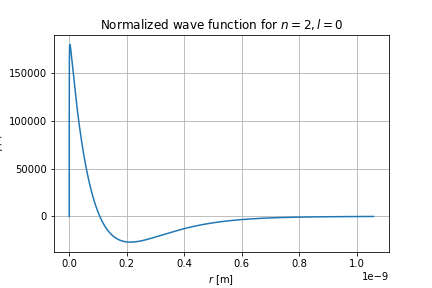
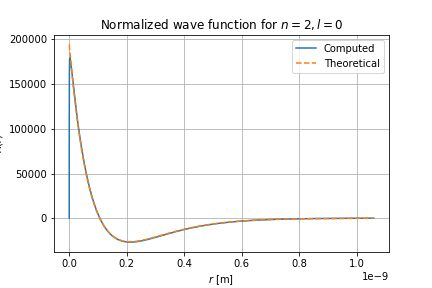
q2

Changed region(s): [[0.0, 0.125, 0.9028, 0.6562], [0.0903, 0.6562, 0.9028, 0.8438], [0.0, 0.5, 0.0301, 0.5312]]

diff --git a/Lab07/code/Lab07_Q2.py b/Lab07/code/Lab07_Q2.py
@@ -11,6 +11,16 @@ import numpy as np
 import matplotlib.pyplot as plt
 import scipy.constants as pc
 
+#define constants
+a = pc.physical_constants['Bohr radius'][0]
+E0 = pc.physical_constants['Rydberg constant times hc in eV'][0] 
+m = pc.m_e #electron mass
+hbar = pc.hbar
+e = pc.e #elementary charge
+eps0 = pc.epsilon_0
+pi = np.pi
+
+#define integration function
 def simpsons(x,f):
     '''
     computes the integral, using simpson's method, of a function given its
@@ -25,18 +35,20 @@ def simpsons(x,f):
         s += 2*f[k]
     return h*s/3.0
 
-# Constants
-a = pc.physical_constants['Bohr radius'][0]
-E0 = pc.physical_constants['Rydberg constant times hc in eV'][0] 
-m = pc.m_e # electron mass
-hbar = pc.hbar
-e = pc.e # elementary charge
-eps0 = pc.epsilon_0
-pi = np.pi
-
+#define function to compute the analytic solutions R(r):
+def R_theory(x, n, l):
+    if n==1:
+        return 2*np.exp(-x/a)/(a**1.5)
+    
+    elif n==2 and l==0:
+        return (1/(2*np.sqrt(2)*a**1.5))*(2-(x/a))*np.exp(-x/(2*a))
+    
+    elif n==2 and l==1:
+        return (1/(2*np.sqrt(6)*a**1.5))*(x/a)*np.exp(-x/(2*a))
+    
 #set n and l
 n = 2
-l = 0
+l = 1
 
 #set step size and max r
 h = 0.002*a
@@ -45,10 +57,11 @@ r_inf = 20*a
 #define array of points r
 r = np.arange(h,r_inf,h)
 
-# Potential function
+#define potential function
 def V(x):
     return -e*e/(4*pi*eps0*x)
 
+#define function to output values of derivatives of coupled ODE system
 def f(val,x,E):
     R = val[0]
     S = val[1]
@@ -56,18 +69,18 @@ def f(val,x,E):
     dS = ((2*m*x*x/hbar**2)*(V(x)-E) + l*(l+1))*R
     return np.array([dR,dS],float)
 
-# Calculate the wavefunction for a particular energy
-def solve(E):
+#calculate the wavefunction for a particular energy
+def wave(E):
     R = 0.0
     S = 1.0
     vals = np.empty((len(r),2),float)
     vals[0] = np.array([R,S])
     
     for i in range(len(r)-1):
-        k1 = h*f(vals[i],r[i],E)
-        k2 = h*f(vals[i]+0.5*k1,r[i]+0.5*h,E)
-        k3 = h*f(vals[i]+0.5*k2,r[i]+0.5*h,E)
-        k4 = h*f(vals[i]+k3,r[i]+h,E)
+        k1 = h*f(vals[i], r[i], E)
+        k2 = h*f(vals[i]+0.5*k1, r[i]+0.5*h, E)
+        k3 = h*f(vals[i]+0.5*k2, r[i]+0.5*h, E)
+        k4 = h*f(vals[i]+k3, r[i]+h, E)
         vals[i+1] = vals[i] + (k1+2*k2+2*k3+k4)/6
 
     return vals
@@ -75,22 +88,37 @@ def solve(E):
 # Main program to find the energy using the secant method
 E1 = -15*e/n**2
 E2 = -13*e/n**2
-R2 = solve(E1)[-1,0]
+R2 = wave(E1)[-1,0]
 
+#specify target accuracy
 target = e/1000
+
+#iteratively apply the secant method until the target accuracy is reached
 while abs(E1-E2) > target:
-    R1,R2 = R2,solve(E2)[-1,0]
-    E1,E2 = E2,E2-R2*(E2-E1)/(R2-R1)
+    R1, R2 = R2, wave(E2)[-1,0]
+    E1, E2 = E2, E2-R2*(E2-E1)/(R2-R1)
     
-psi = solve(E2)[:,0]
+#compute the wave function for the calculated energy
+psi = wave(E2)[:,0]
 
+#compute the norm of psi and normalize the wavefunction
 norm = simpsons(r,abs(psi)**2)
-
 psi_normal = psi/np.sqrt(norm)
+
+#compute the theoretical wavefunction
+psi_theory = R_theory(r, n, l)
+
+#normalize the theoretical wave function
+norm_theory = simpsons(r,abs(psi_theory)**2)
+psi_theory_normal = psi_theory/np.sqrt(norm_theory)
+
+#plot
 plt.figure(0)
-plt.plot(r, psi_normal)
+plt.plot(r, psi_normal, label='Computed')
+plt.plot(r, psi_theory_normal, '--', label='Theoretical')
 plt.grid()
 plt.title('Normalized wave function for $n='+str(n)+', l='+str(l)+'$')
-plt.ylabel('$\psi(r)$')
+plt.ylabel('$R(r)$')
 plt.xlabel('$r$ [m]')
+plt.legend(loc='upper right')
 plt.savefig('../images/q2_d_n='+str(n)+'_l='+str(l)+'.png')

diff --git a/Lab07/tex_file/PHY407_Lab07.tex b/Lab07/tex_file/PHY407_Lab07.tex
@@ -74,4 +74,33 @@ In table \ref{tab:2b_iii} we display the calculated values of the energy for the
 	\end{tabular}
 \end{table}
 
+\subsection{Part d)}
+
+We seek to produce plots of the normalized computed wavefunctions $R(r)$ for each of the energy levels from the previous section, and compare the graphs of the functions to those of the theoretical solutions to the differential equation.
+
+Plots of the eigenfunctions for all three sets of $n$ and $l$ values are shown in figures \ref{fig:q2_d_n=1_l=0}-\ref{fig:q2_d_n=2_l=1}. In all figures, both the computed and theoretical wavefunctions have been normalized. As can be seen from the figures, the overall agreement between the computed and theoretical functions on the breadth of the domain is very good; the only regions where there are some discernible discrepancies are near the endpoints.
+
+In the case of both $n=1, l=0$ and $n=2, l=0$, we see that the theoretical wavefunction increases to infinity at r=0. However, we required the boundary condition 
+
+\begin{figure}[H]
+	\centering
+	\includegraphics[width=0.8\textwidth]{../images/q2_d_n=1_l=0.png}
+	\caption{Plot of computed and theoretical normalized wavefunction $R(r)$ for $n=1, l=0$.}
+	\label{fig:q2_d_n=1_l=0}
+\end{figure}
+
+\begin{figure}[H]
+	\centering
+	\includegraphics[width=0.8\textwidth]{../images/q2_d_n=2_l=0.png}
+	\caption{Plot of computed and theoretical normalized wavefunction $R(r)$ for $n=2, l=0$.}
+	\label{fig:q2_d_n=2_l=0}
+\end{figure}
+
+\begin{figure}[H]
+	\centering
+	\includegraphics[width=0.8\textwidth]{../images/q2_d_n=2_l=1.png}
+	\caption{Plot of computed and theoretical normalized wavefunction $R(r)$ for $n=2, l=1$.}
+	\label{fig:q2_d_n=2_l=1}
+\end{figure}
+
 \end{document}
